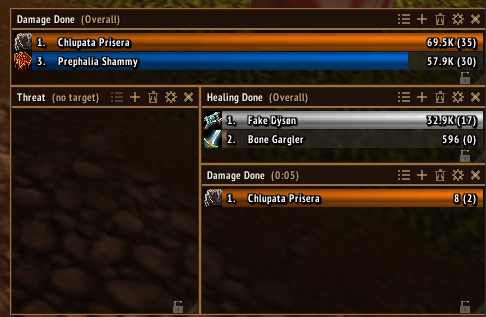
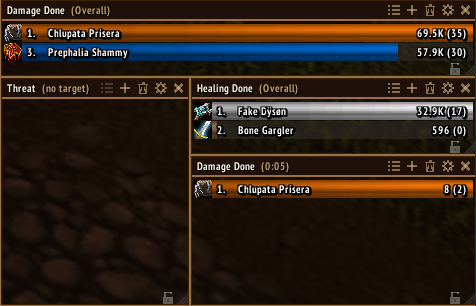
fixed image cropping

diff --git a/index.html b/index.html
@@ -187,6 +187,65 @@
         }
         .feature-icon { font-size: 2rem; color: var(--brand-orange); margin-bottom: 15px; }
 
+        /* Damage Meter style switcher */
+        .damage-style-switcher {
+            display: inline-flex;
+            flex-wrap: wrap;
+            justify-content: center;
+            gap: 8px;
+            padding: 6px;
+            border: 1px solid rgba(255, 123, 0, 0.28);
+            border-radius: 10px;
+            background: rgba(13, 13, 13, 0.72);
+            backdrop-filter: blur(8px);
+            box-shadow: 0 10px 30px rgba(0,0,0,0.28);
+        }
+
+        .damage-style-btn {
+            border: 1px solid transparent;
+            border-radius: 7px;
+            background: transparent;
+            color: #a0a0a0;
+            padding: 9px 18px;
+            font: inherit;
+            font-weight: 600;
+            cursor: pointer;
+            transition: all 0.25s ease;
+        }
+
+        .damage-style-btn:hover {
+            color: #fff;
+            border-color: rgba(255, 123, 0, 0.45);
+            background: rgba(255, 123, 0, 0.08);
+        }
+
+        .damage-style-btn.active {
+            color: #fff;
+            background: var(--brand-orange);
+            border-color: var(--brand-orange);
+            box-shadow: 0 4px 14px rgba(255, 123, 0, 0.24);
+        }
+
+        .damage-hero-showcase {
+            margin-top: 8px;
+        }
+
+        .damage-hero-image {
+            opacity: 1;
+            transition: opacity 0.18s ease, transform 0.3s ease;
+        }
+
+        .damage-hero-image.is-switching {
+            opacity: 0.15;
+            transform: scale(0.992);
+        }
+
+        .damage-style-label {
+            color: var(--text-muted);
+            font-size: 0.9rem;
+            margin-top: 12px;
+        }
+
 
         /* Product switcher */
         .product-tabs {
@@ -634,15 +693,21 @@
                     with a familiar WoW-style presentation and a clean modern option.
                 </p>
 
-                <div class="d-flex justify-content-center flex-wrap gap-2 mb-5">
-                    <span class="style-chip"><i class="fa-solid fa-layer-group text-orange"></i>WoW Forever style</span>
-                    <span class="style-chip"><i class="fa-solid fa-wand-magic-sparkles text-orange"></i>Modern style</span>
+                <div class="damage-style-switcher mb-3" role="group" aria-label="Damage Meter visual style">
+                    <button type="button" class="damage-style-btn" data-damage-style="forever" aria-pressed="false">
+                        <i class="fa-solid fa-layer-group me-2"></i>WoW Forever Style
+                    </button>
+                    <button type="button" class="damage-style-btn active" data-damage-style="modern" aria-pressed="true">
+                        <i class="fa-solid fa-wand-magic-sparkles me-2"></i>Modern Style
+                    </button>
                 </div>
+                <div id="damage-style-label" class="damage-style-label mb-4">Modern Style</div>
 
-                <div class="hero-showcase px-3">
-                    <img src="https://raw.githubusercontent.com/Preph/PrephUI/main/.github/gitmedia/dmg/overview.png"
-                         alt="Preph's Damage Meter overview"
-                         class="img-fluid showcase-img w-100"
+                <div class="hero-showcase damage-hero-showcase px-3">
+                    <img id="damage-style-image"
+                         src="https://raw.githubusercontent.com/Preph/PrephUI/main/.github/gitmedia/dmg/overview.png"
+                         alt="Preph's Damage Meter Modern Style overview"
+                         class="img-fluid showcase-img w-100 damage-hero-image"
                          style="max-width: 1000px;">
                 </div>
             </div>
@@ -781,6 +846,51 @@
     <!-- Bootstrap 5 JS -->
     <script src="https://cdn.jsdelivr.net/npm/bootstrap@5.3.2/dist/js/bootstrap.bundle.min.js"></script>
     
+
+    <script>
+        // Damage Meter visual style switcher
+        (() => {
+            const image = document.getElementById('damage-style-image');
+            const label = document.getElementById('damage-style-label');
+            const buttons = document.querySelectorAll('[data-damage-style]');
+
+            if (!image || !label || !buttons.length) return;
+
+            const styles = {
+                modern: {
+                    src: 'https://raw.githubusercontent.com/Preph/PrephUI/main/.github/gitmedia/dmg/overview.png',
+                    alt: "Preph's Damage Meter Modern Style overview",
+                    label: 'Modern Style'
+                },
+                forever: {
+                    src: 'https://raw.githubusercontent.com/Preph/PrephUI/main/.github/gitmedia/dmg/overview-forever.png',
+                    alt: "Preph's Damage Meter WoW Forever Style overview",
+                    label: 'WoW Forever Style'
+                }
+            };
+
+            buttons.forEach(button => {
+                button.addEventListener('click', () => {
+                    const selected = styles[button.dataset.damageStyle];
+                    if (!selected || image.src.endsWith(selected.src)) return;
+
+                    buttons.forEach(btn => {
+                        const active = btn === button;
+                        btn.classList.toggle('active', active);
+                        btn.setAttribute('aria-pressed', active ? 'true' : 'false');
+                    });
+
+                    image.classList.add('is-switching');
+                    window.setTimeout(() => {
+                        image.src = selected.src;
+                        image.alt = selected.alt;
+                        label.textContent = selected.label;
+                    }, 90);
+                    window.setTimeout(() => image.classList.remove('is-switching'), 190);
+                });
+            });
+        })();
+    </script>
 
     <script>
         // Product tab switching
